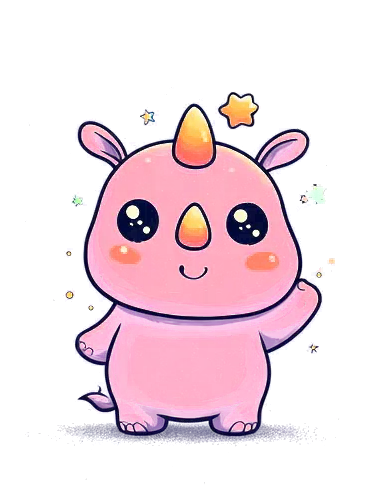
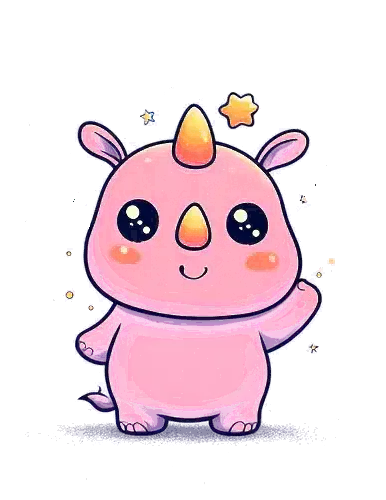
Add the Tiny Trails key art and clear Rosie's ear smudges.
The chosen astronaut cut-out sits unframed on Now playing and the game page. The blurry green keying blobs beside Rosie's ears are transparent on every wave frame and the still.

diff --git a/games/tiny-trails-space/index.html b/games/tiny-trails-space/index.html
@@ -29,9 +29,10 @@
 <link rel="icon" href="/assets/mascot/favicon.png" type="image/png">
 <link rel="apple-touch-icon" href="/assets/mascot/apple-touch-icon.png">
 <link rel="preload" href="/assets/fonts/baloo-2-latin-800.woff2" as="font" type="font/woff2" crossorigin>
+<link rel="preload" href="/assets/games/tiny-trails-space/hero.webp" as="image" type="image/webp">
 <link rel="stylesheet" href="/assets/css/site.css">
 <link rel="stylesheet" href="/assets/css/themes.css">
-<script type="application/ld+json">{"@context":"https://schema.org","@type":"VideoGame","name":"Tiny Trails: Space","description":"Trace a glowing trail through cosmic worlds. A calm game for ages 3 to 6 with no ads and no accounts.","url":"https://pinkrynostudios.com/games/tiny-trails-space/","image":"https://pinkrynostudios.com/assets/mascot/rosie-full.webp","genre":"Kids","audience":{"@type":"PeopleAudience","suggestedMinAge":3,"suggestedMaxAge":6},"publisher":{"@type":"Organization","name":"PinkRyno Studios","url":"https://pinkrynostudios.com/"}}</script>
+<script type="application/ld+json">{"@context":"https://schema.org","@type":"VideoGame","name":"Tiny Trails: Space","description":"Trace a glowing trail through cosmic worlds. A calm game for ages 3 to 6 with no ads and no accounts.","url":"https://pinkrynostudios.com/games/tiny-trails-space/","image":"https://pinkrynostudios.com/assets/games/tiny-trails-space/hero.webp","genre":"Kids","audience":{"@type":"PeopleAudience","suggestedMinAge":3,"suggestedMaxAge":6},"publisher":{"@type":"Organization","name":"PinkRyno Studios","url":"https://pinkrynostudios.com/"}}</script>
 </head>
 <body>
 <div id="page">
@@ -58,7 +59,7 @@
 <article class="wrap section game-tiny-trails-space">
     <p class="crumbs"><a href="/games/">Games</a> / Tiny Trails: Space</p>
     <div class="card spotlight">
-      <div class="frame frame-wide"><div class="art-slot" role="img" aria-label="Illustration not added yet. Slot TT-HERO. Tiny Trails: Space key art. Planned picture: A chibi astronaut beside a glowing trail on a lavender moon, with a smiling star ahead"><p class="art-slot-card" aria-hidden="true"><span class="art-slot-id">TT-HERO</span> <span class="art-slot-label">Tiny Trails: Space key art</span></p></div></div>
+      <img class="spotlight-art" src="/assets/games/tiny-trails-space/hero.webp" alt="Astro, a chibi astronaut with pink curly hair, standing on a small mint planet beside a smiling butter-yellow star and a trail of sparkles" width="713" height="656" fetchpriority="high">
       <div class="card-body">
         <div class="chips"><span class="chip chip-lavender">Ages 3–6</span> <span class="chip chip-mint">Ready to play</span></div>
         <h1>Tiny Trails: Space</h1>

diff --git a/index.html b/index.html
@@ -86,8 +86,8 @@
       <h2 id="now-playing">Now playing</h2>
       <p>What is free, what the one-time unlock adds, and where to press play.</p>
     </div>
-    <article class="card spotlight game-tiny-trails-space spotlight-open">
-        
+    <article class="card spotlight game-tiny-trails-space">
+        <img class="spotlight-art" src="/assets/games/tiny-trails-space/hero.webp" alt="Astro, a chibi astronaut with pink curly hair, standing on a small mint planet beside a smiling butter-yellow star and a trail of sparkles" width="713" height="656" loading="lazy">
         <div class="card-body">
           <div class="chips"><span class="chip chip-lavender">Ages 3–6</span> <span class="chip chip-mint">Ready to play</span></div>
           <h3 class="card-title"><a href="/games/tiny-trails-space/">Tiny Trails: Space</a></h3>

diff --git a/docs/art-requests.md b/docs/art-requests.md
@@ -12,7 +12,9 @@ A new pose is still only a `site.json` path change, then `node scripts/render-si
 
 The home hero is one `<picture>`. `mascot.hero.webp` plays when the visitor allows motion. `mascot.hero.stillWebp` is the still for `prefers-reduced-motion`. `mascot.hero.png` is the same still for browsers without WebP.
 
-Those three files are the approved wave loop. The source movie is `assets/mascot/source/rosie-wave-loop.mp4` (4 seconds, 720×720, 24 fps). It was generated from the approved Midjourney Rosie image, `assets/mascot/source/rosie-ryno-original.png`. In the loop she waves, happy-squints, hops, and comes back to the start pose. The flat lavender field was removed, so the WebP has a real transparent background. The site version keeps every other frame (12 fps, 386×500) so the file stays about 1.3 MB. The page does not play the movie's audio. `rosie-wave.png` and `rosie-wave-still.webp` are the first frame.
+Those three files are the approved wave loop. The source movie is `assets/mascot/source/rosie-wave-loop.mp4` (4 seconds, 720×720, 24 fps). It was generated from the approved Midjourney Rosie image, `assets/mascot/source/rosie-ryno-original.png`. In the loop she waves, happy-squints, hops, and comes back to the start pose. The flat lavender field was removed, so the WebP has a real transparent background. The site version keeps every other frame (12 fps, 49 frames, 84 ms each, 386×500, looping). The page does not play the movie's audio. `rosie-wave.png` and `rosie-wave-still.webp` are the first frame.
+
+The keyed frames had a blurry green smudge beside both ears: a larger one just to the viewer's right of her head, level with the top of her eyes, and a smaller one on the viewer's left. They were half-transparent keying leftovers, and they sat on every frame. Those pixels are now transparent in all 49 frames of `rosie-wave.webp`, and in the still WebP and PNG. The crisp star by her horn, her outline, the contact shadow, the timing, and the loop were left as they were. The source movie was not edited.
 
 The older full-body cut-out, `rosie-full`, is still the picture on About, Support, and the 404. The eye and body cut layers in `assets/mascot/source/` (`rosie-body-no-eyes.png`, `rosie-eyes.png`) are not used. Do not build a CSS blink or a separate arm on top of them.
 
@@ -34,7 +36,7 @@ Negative prompt used throughout: `--no text, letters, watermark, logo, photoreal
 
 | Slot | File to deliver | Where it shows | Size |
 | --- | --- | --- | --- |
-| TT-HERO | `assets/games/tiny-trails-space/hero.webp` | Tiny Trails: Space page, and the home Now playing spot with no frame. Until this file exists, Now playing is just the text. | 1600×900 (16:9) |
+| TT-HERO | `assets/games/tiny-trails-space/hero.webp` | Home Now playing and the Tiny Trails: Space page, with no frame. This file is in place. | 713×656 (keyed crop of the chosen art) |
 | TT-CARD | `assets/games/tiny-trails-space/card.webp` | Home and games index card | 1280×800 (16:10) |
 | TT-SCENE-PLAY | `assets/games/tiny-trails-space/scene-play.webp` | Game page, first scene | 1200×900 (4:3) |
 | TT-SCENE-WORLDS | `assets/games/tiny-trails-space/scene-worlds.webp` | Game page, second scene | 1200×900 (4:3) |
@@ -55,7 +57,7 @@ Optional, not slotted on the page yet. Say if you want them wired in:
 
 `flat vector cartoon sticker illustration of a cute chibi kid astronaut with a round glass helmet and pink curly hair floating beside a glowing raised peach stardust path on a soft lavender moon, a chubby smiling butter-yellow star with rounded points waiting ahead, a small mint planet and a sky-teal moon in a deep navy-violet sky, consistent medium-weight deep plum outlines on every shape, flat two-tone cel shading, one soft violet drop shadow offset down and to the right, cosmic candy palette of lavender peach mint butter-yellow and sky teal, rounded friendly shapes, kawaii faces with blush, clean and uncluttered, children's game art for ages 3-6 --ar 16:9 --v 7 --style raw --stylize 150 --no text, letters, watermark, photorealism, pixel art, gradients on characters, scary, sharp teeth, black outlines`
 
-Save the chosen anchor. Deliver the cropped 1600×900 file as `hero.webp`.
+Cassie picked this anchor: Midjourney job `8e26e821-8670-4c90-b69c-a6674459051a`, index 3 (bottom-left), file `tt-hero-astro-3`. Astro #2 was the image prompt, with the cosmic-sticker style reference. The original PNG is `assets/games/tiny-trails-space/source/tt-hero-astro-3.png` (1456×816). The flat lavender field was removed, and `hero.webp` is that cut-out at 713×656. It sits on the page with no frame, card, or border, on the home Now playing spot and at the top of the Tiny Trails: Space page. The alt text is in `games.json` under `art_alt.hero`.
 
 ### 1. TT-CARD
 
